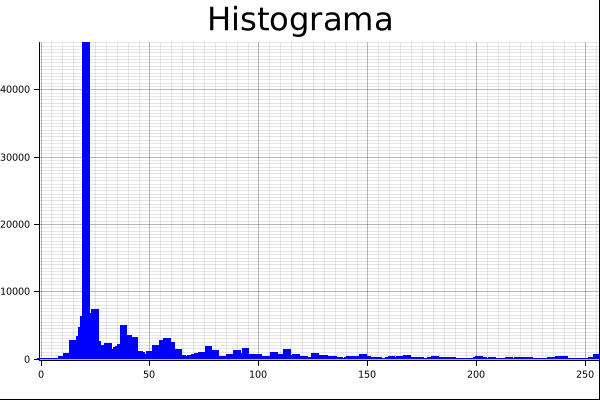
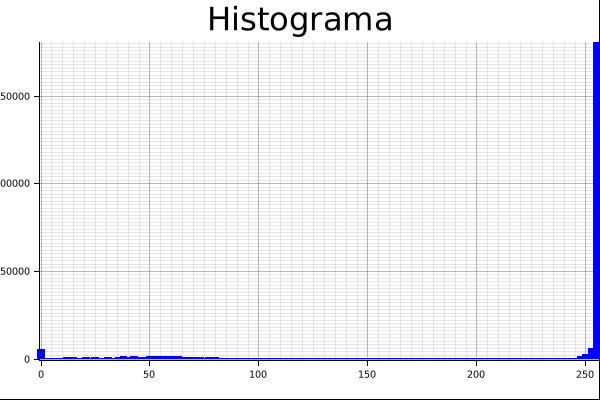
general changes

diff --git a/trabalho_1/src/image_ops.rs b/trabalho_1/src/image_ops.rs
@@ -180,19 +180,18 @@ pub fn apply_conv(kernel:[[f32;3];3],image:&ImageBuffer<Rgb<u8>,Vec<u8>>) -> Ima
                 for j in 0..=2{
                     let disloc_x = i as i32-1;
                     let disloc_y = j as i32-1;
-                    a += 1;
 
-                    let pixel = image.get_pixel((x as i32 +disloc_x) as u32, (y as i32+disloc_y) as u32);
+                    a+=1;
+
+                    let pixel = image.get_pixel((x as i32 + disloc_x) as u32, (y as i32 + disloc_y) as u32);
                     
-                    result[0] = result[0] + (pixel[0] as f32 * kernel[i as usize][j as usize]).max(0.0) as u8 ;
-                    result[1] = result[1] + (pixel[1] as f32 * kernel[i as usize][j as usize]).max(0.0) as u8 ;
-                    result[2] = result[2] + (pixel[2] as f32 * kernel[i as usize][j as usize]).max(0.0) as u8 ;
+                    result[0] = result[0] + (pixel[0] as f32 * kernel[i as usize][j as usize]) as u8 ;
+                    result[1] = result[1] + (pixel[1] as f32 * kernel[i as usize][j as usize]) as u8 ;
+                    result[2] = result[2] + (pixel[2] as f32 * kernel[i as usize][j as usize]) as u8 ;
                 }
             }
-            dbg!(a);
-            output.put_pixel(x, y, Rgb((result)));        
-        }
+            output.put_pixel(x, y, Rgb(result));     
+          }
     }
     return output;   
-
 }

diff --git a/trabalho_1/src/matrix_ops.rs b/trabalho_1/src/matrix_ops.rs
@@ -1,3 +1,11 @@
-pub fn apply_kernel(kernel:[[f32;3];3], matrix:[[u8;3];3]) -> u8{
-        return kernel[0][0] as u8*matrix[0][0];
-  }
+pub fn apply_kernel(kernel: [[f32; 3]; 3], matrix: [[u8; 3]; 3]) -> u8 {
+    return (kernel[0][0] * matrix[0][0] as f32
+        + kernel[0][1]  * matrix[0][1] as f32
+        + kernel[0][2]  * matrix[0][2] as f32
+        + kernel[1][0]  * matrix[1][0] as f32
+        + kernel[1][1]  * matrix[1][1] as f32
+        + kernel[1][2]  * matrix[1][2] as f32
+        + kernel[2][0]  * matrix[2][0] as f32
+        + kernel[2][1]  * matrix[2][1] as f32
+        + kernel[2][2]  * matrix[2][2] as f32 ) as u8;
+}

diff --git a/trabalho_1/src/test.rs b/trabalho_1/src/test.rs
@@ -1,4 +1,8 @@
+use crate::matrix_ops::apply_kernel;
+
 #[test]
     pub(crate) fn test_apply_matrix(){
-        assert_eq!(1,2);
+        let laplacian = [[0.0,-1.0,0.0],[-1.0,4.0,-1.0],[0.0,-1.0,0.0]];
+        let matrix = [[0,1,10],[0,10,5],[0,1,2]];
+        assert_eq!(apply_kernel(laplacian, matrix),33);
 }
